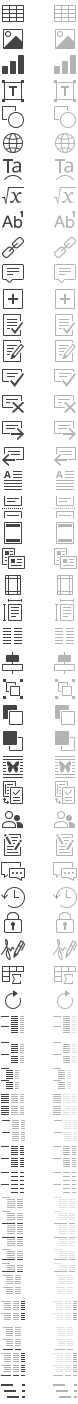
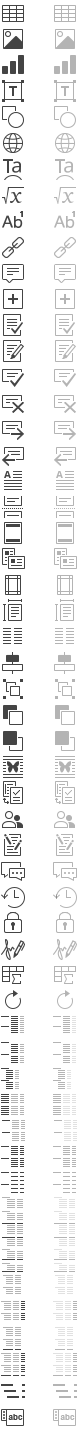
[SSE] Fix merging v.5.0.7 to develop.

diff --git a/apps/spreadsheeteditor/main/app/view/PivotTable.js b/apps/spreadsheeteditor/main/app/view/PivotTable.js
@@ -166,7 +166,7 @@ define([
 
                 this.btnAddPivot = new Common.UI.Button({
                     cls: 'btn-toolbar x-huge icon-top',
-                    iconCls: 'btn-ic-docspell',
+                    iconCls: 'btn-add-pivot',
                     caption: this.txtCreate,
                     disabled    : true
                 });
@@ -174,7 +174,7 @@ define([
 
                 this.btnPivotLayout = new Common.UI.Button({
                     cls         : 'btn-toolbar x-huge icon-top',
-                    iconCls     : 'btn-insertimage',
+                    iconCls     : 'btn-pivot-layout',
                     caption     : this.capLayout,
                     disabled    : true,
                     menu        : new Common.UI.Menu({
@@ -192,7 +192,7 @@ define([
 
                 this.btnPivotBlankRows = new Common.UI.Button({
                     cls         : 'btn-toolbar x-huge icon-top',
-                    iconCls     : 'btn-insertimage',
+                    iconCls     : 'btn-blank-rows',
                     caption     : this.capBlankRows,
                     disabled    : true,
                     menu        : new Common.UI.Menu({
@@ -206,7 +206,7 @@ define([
 
                 this.btnPivotSubtotals = new Common.UI.Button({
                     cls         : 'btn-toolbar x-huge icon-top',
-                    iconCls     : 'btn-insertimage',
+                    iconCls     : 'btn-subtotals',
                     caption     : this.capSubtotals,
                     disabled    : true,
                     menu        : new Common.UI.Menu({
@@ -221,7 +221,7 @@ define([
 
                 this.btnPivotGrandTotals = new Common.UI.Button({
                     cls         : 'btn-toolbar x-huge icon-top',
-                    iconCls     : 'btn-insertimage',
+                    iconCls     : 'btn-grand-totals',
                     caption     : this.capGrandTotals,
                     disabled    : true,
                     menu        : new Common.UI.Menu({
@@ -237,7 +237,7 @@ define([
 
                 this.btnRefreshPivot = new Common.UI.Button({
                     cls: 'btn-toolbar x-huge icon-top',
-                    iconCls: 'btn-ic-docspell',
+                    iconCls: 'btn-update-pivot',
                     caption: this.txtRefresh,
                     disabled    : true
                 });

diff --git a/apps/common/main/resources/less/toolbar.less b/apps/common/main/resources/less/toolbar.less
@@ -285,6 +285,12 @@
 .button-normal-icon(~'x-huge .btn-ic-history', 34, @toolbar-big-icon-size);
 .button-normal-icon(~'x-huge .btn-ic-protect', 35, @toolbar-big-icon-size);
 .button-normal-icon(~'x-huge .btn-ic-signature', 36, @toolbar-big-icon-size);
+.button-normal-icon(~'x-huge .btn-add-pivot', 37, @toolbar-big-icon-size);
+.button-normal-icon(~'x-huge .btn-update-pivot', 38, @toolbar-big-icon-size);
+.button-normal-icon(~'x-huge .btn-pivot-layout', 39, @toolbar-big-icon-size);
+.button-normal-icon(~'x-huge .btn-blank-rows', 43, @toolbar-big-icon-size);
+.button-normal-icon(~'x-huge .btn-subtotals', 46, @toolbar-big-icon-size);
+.button-normal-icon(~'x-huge .btn-grand-totals', 52, @toolbar-big-icon-size);
 .button-normal-icon(review-save,          14, @toolbar-big-icon-size);
 .button-normal-icon(review-deny,          15, @toolbar-big-icon-size);
 .button-normal-icon(review-next,          16, @toolbar-big-icon-size);
